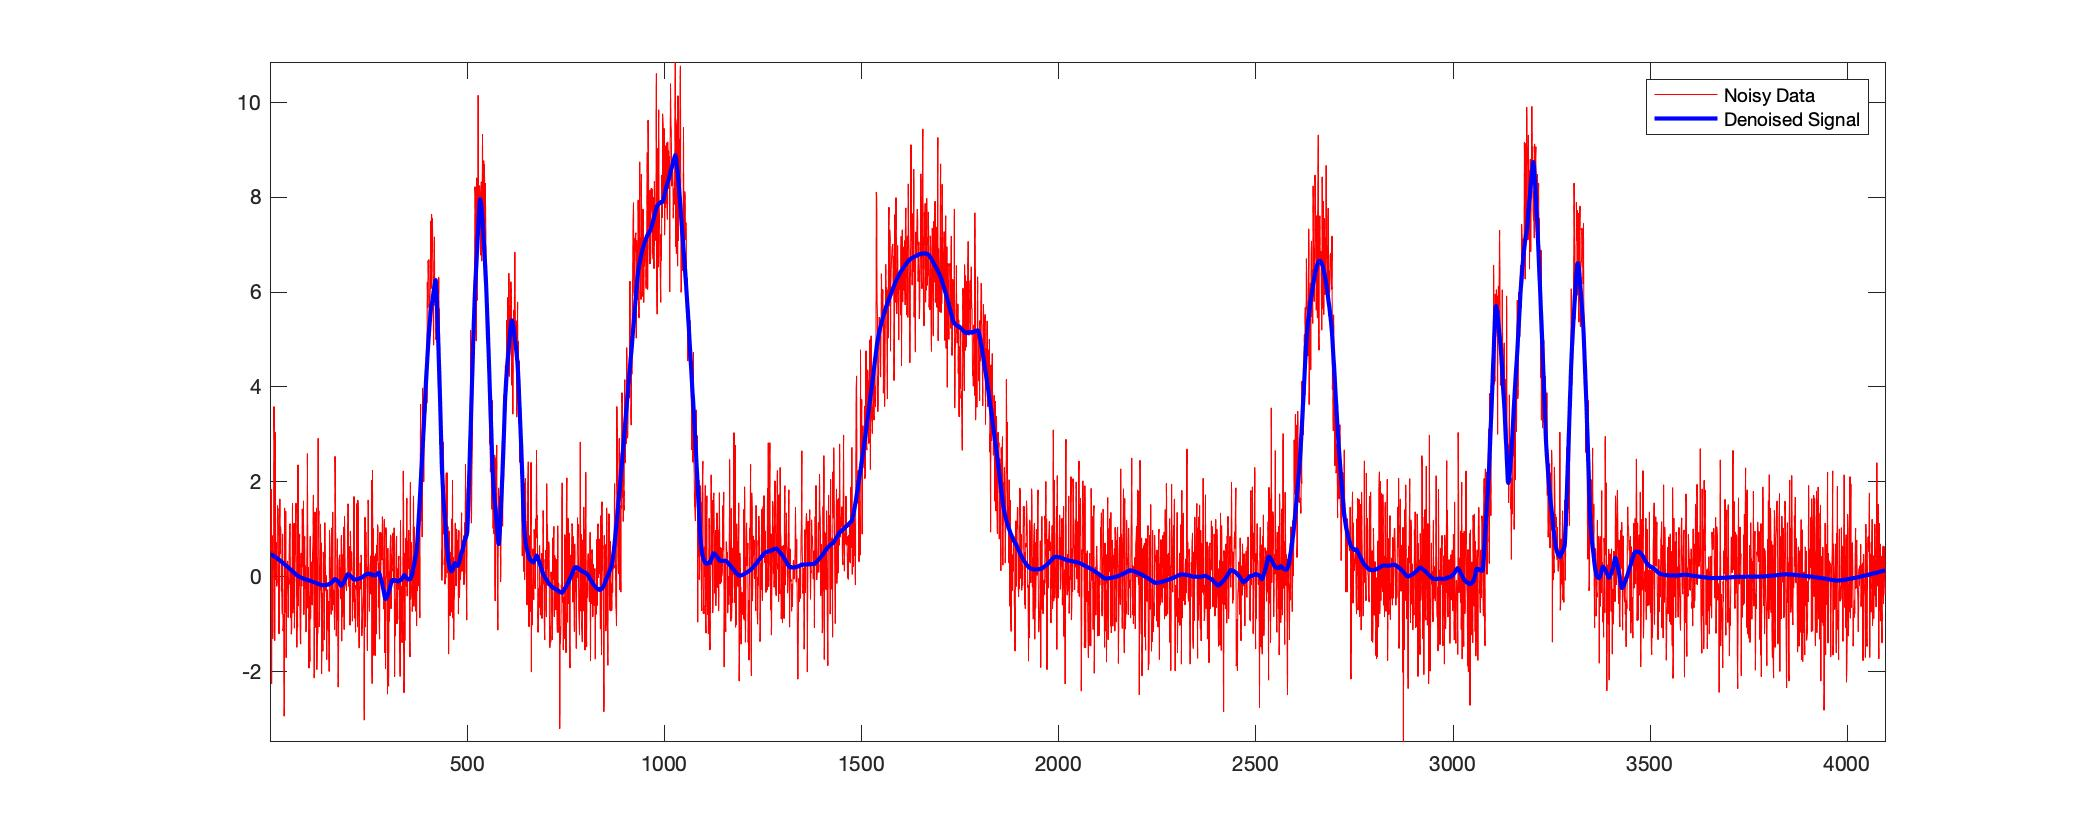
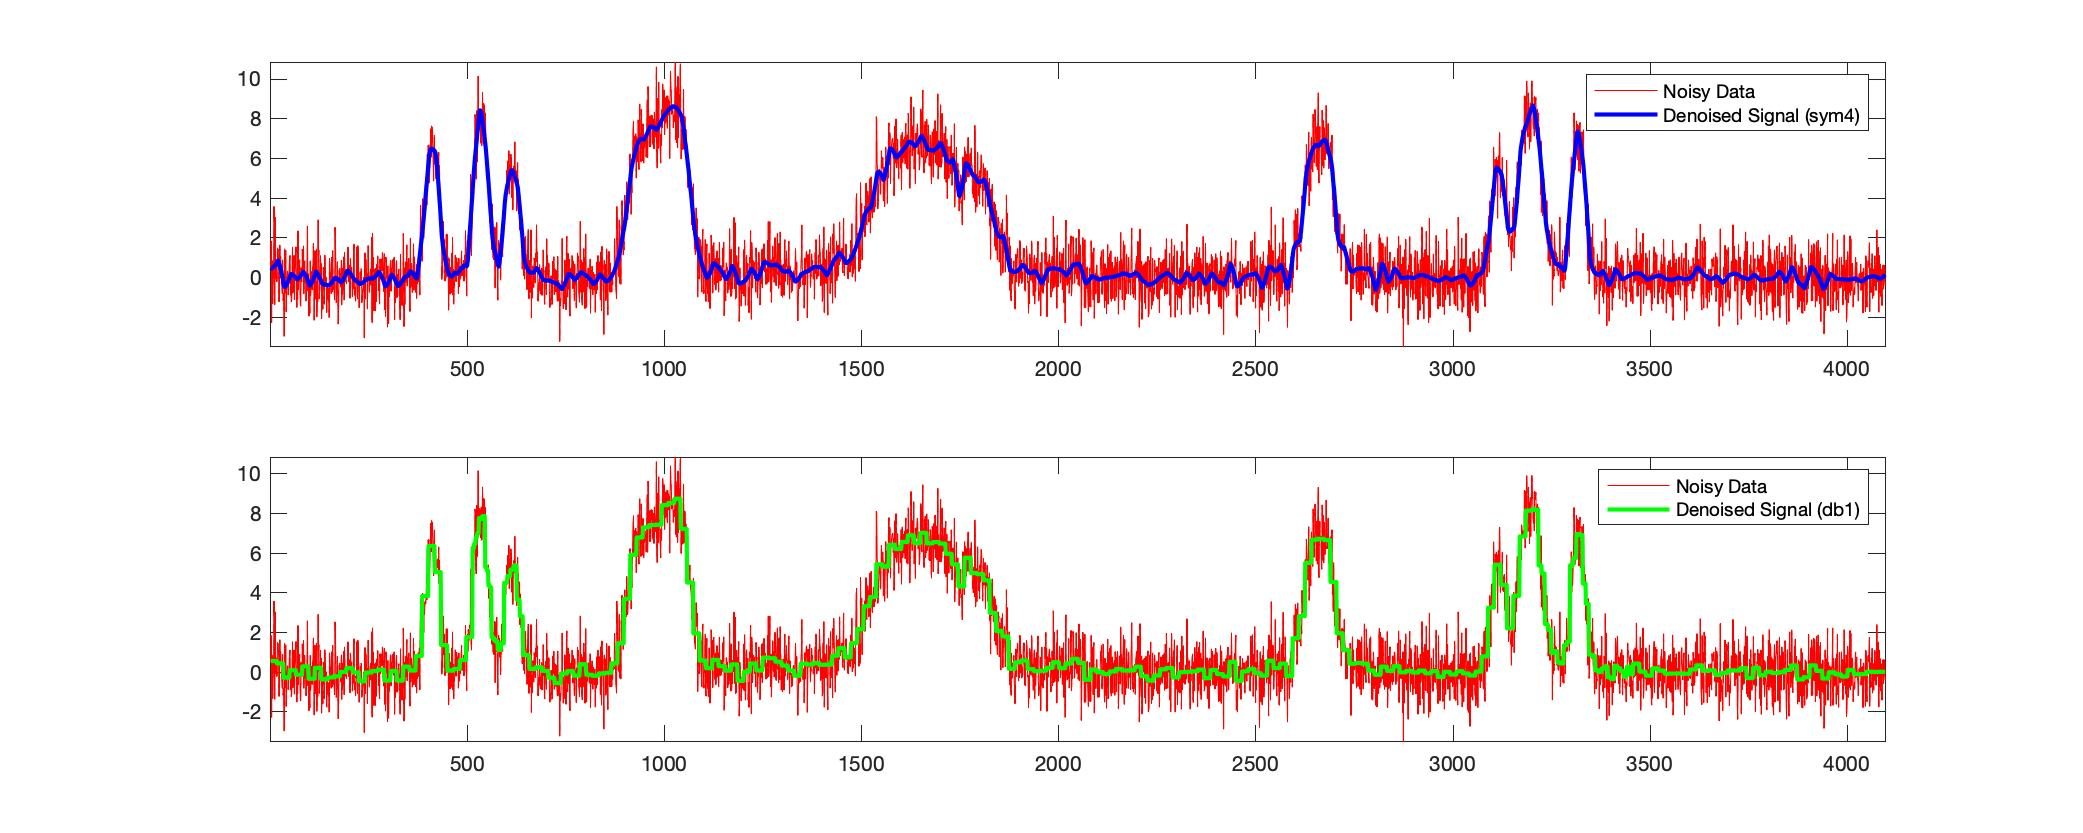
Add files via upload

Changed region(s): [[0.0936, 0.0936, 0.9049, 0.8739], [0.8737, 0.437, 0.9049, 0.4682], [0.0936, 0.0936, 0.1248, 0.1248]]

diff --git a/images/wavelet_denoising/denoising_synthetic_data.m b/images/wavelet_denoising/denoising_synthetic_data.m
@@ -2,18 +2,28 @@ clear; close; %clc;
 
 rng default;
 [X,XN] = wnoise('bumps',12,sqrt(6)); %returns values x of the test signal fun evaluated at 2n linearly spaced points from 0 to 1
-denoised_signal = wdenoise(XN,9,'Wavelet','sym4','DenoisingMethod','BlockJS');
-denoised_signal_db1 = wdenoise(XN,9,'Wavelet','db1','DenoisingMethod','BlockJS');
+denoised_signal = wdenoise(XN,4,'Wavelet','sym4','DenoisingMethod','BlockJS');
+denoised_signal_db1 = wdenoise(XN,4,'Wavelet','db1','DenoisingMethod','BlockJS');
 
 
 fig3=figure('Renderer', 'painters', 'Position', [100 100 1000 400], 'color','w');
+ax1 = subplot(211)
 plot(XN,'r')
 hold on;
 plot(denoised_signal,'b', 'linewidth',2)
-legend('Noisy Data', 'Denoised Signal')
-axis tight;
+legend('Noisy Data', 'Denoised Signal (sym4)')
 hold off;
+xlim([0, 4000])
 axis tight;
+ax2 = subplot(212)
+plot(XN,'r')
+hold on;
+plot(denoised_signal_db1,'g', 'linewidth',2)
+legend('Noisy Data', 'Denoised Signal (db1)')
+hold off;
+xlim([0, 4000])
+axis tight;
+linkaxes([ax1 ax2],'x')
 print(fig3,['noisy_test_signal','.jpg'],'-djpeg')
 
 snrsym = -20*log10(norm(abs(denoised_signal-XN))/norm(XN))
